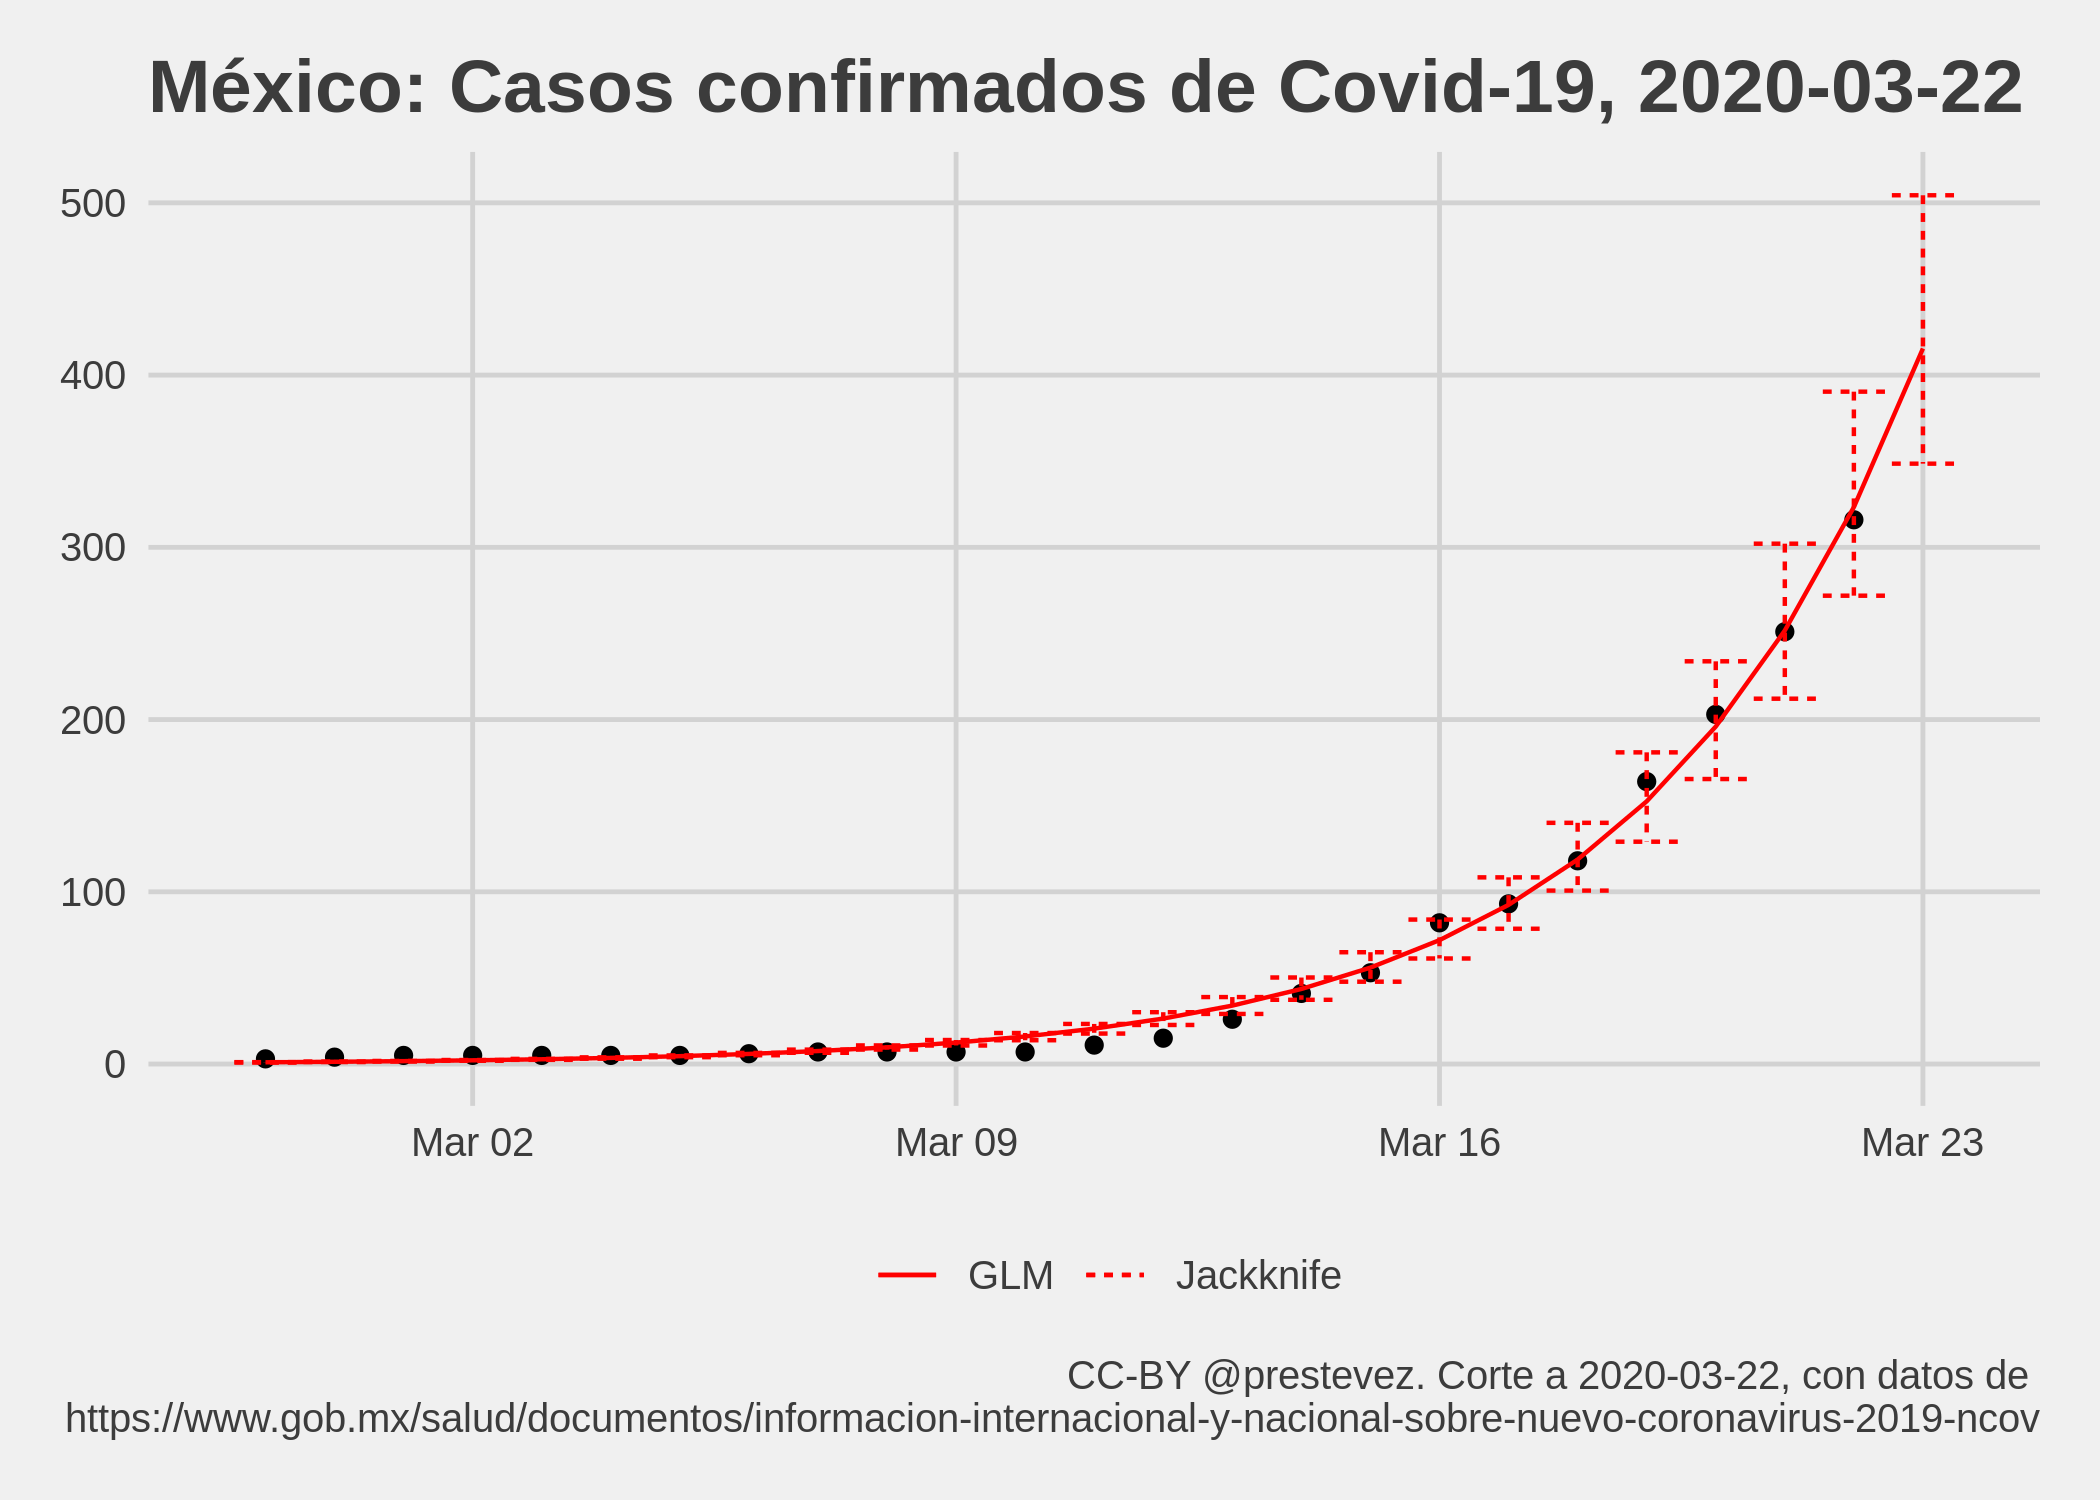
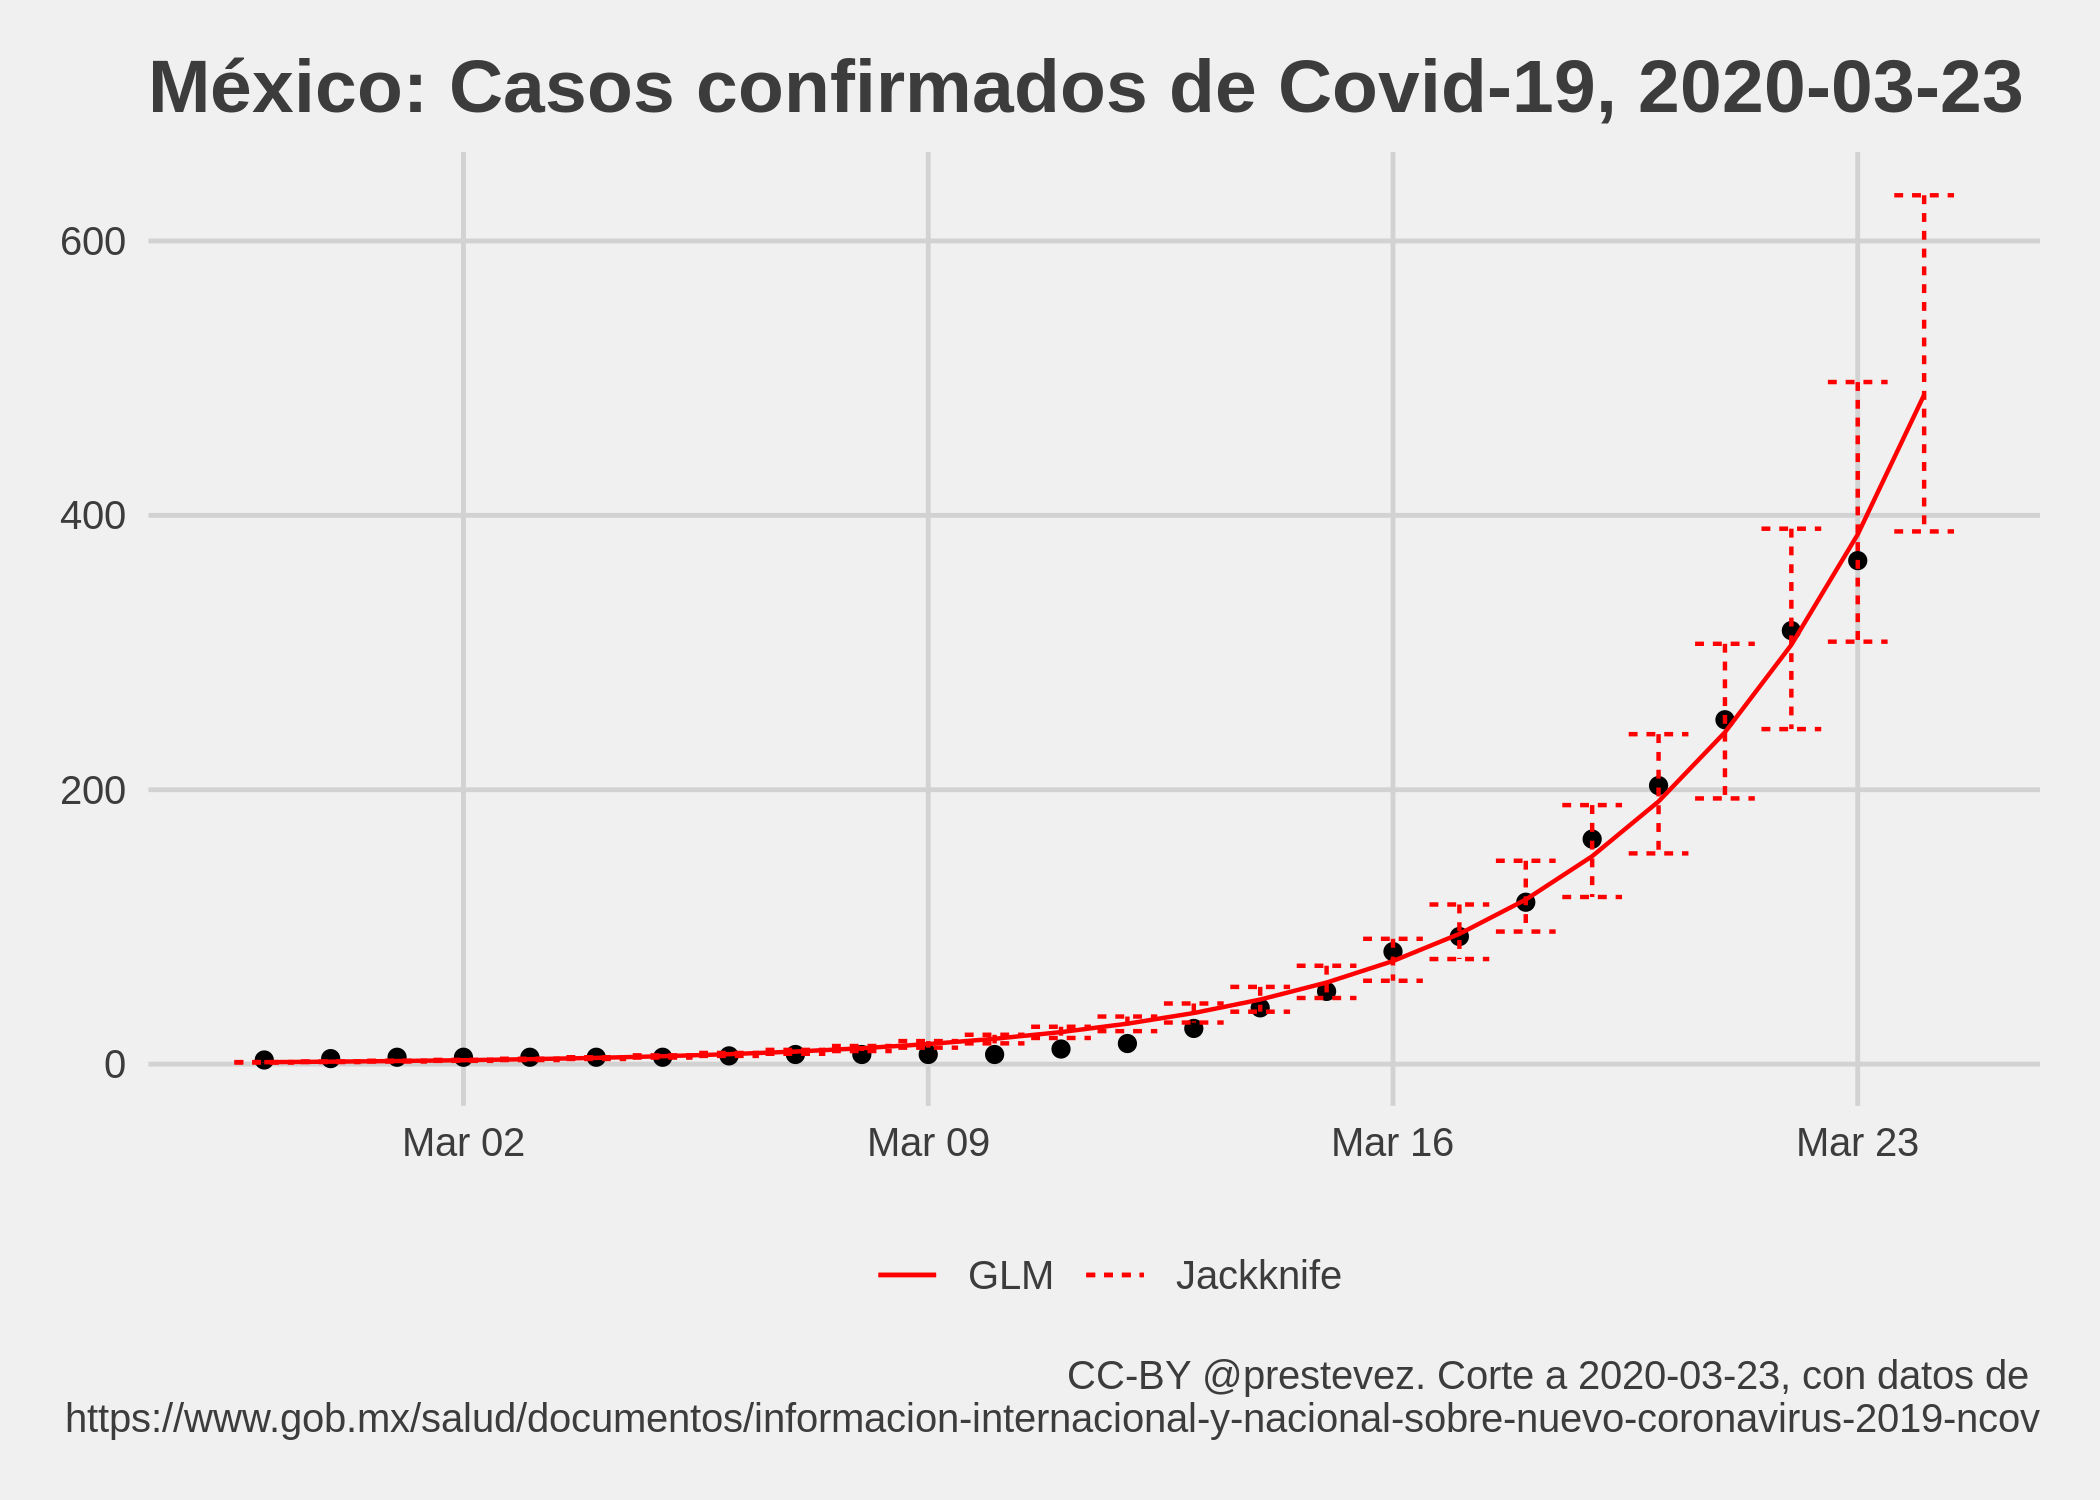
updated 2020-03-23

diff --git a/README.md b/README.md
@@ -1,7 +1,7 @@
 Evolución de Covid-19 en México
 ================
 [Patricio R Estevez-Soto](https://twitter.com/prestevez).
-Actualizado: 2020-03-24 01:05:29 GMT
+Actualizado: 2020-03-24 01:09:50 GMT
 
 # Crecimiento de casos confirmados de Covid-19 en México
 
@@ -37,23 +37,23 @@ Parámetros del modelo predictivo:
     ## glm(formula = casos ~ t, family = gaussian("log"), data = casos)
     ## 
     ## Deviance Residuals: 
-    ##      Min        1Q    Median        3Q       Max  
-    ## -11.4130   -3.6141   -0.2124    2.3445   11.4760  
+    ##     Min       1Q   Median       3Q      Max  
+    ## -19.126   -6.472   -1.250    2.217   12.463  
     ## 
     ## Coefficients:
-    ##              Estimate Std. Error t value Pr(>|t|)    
-    ## (Intercept) -0.233077   0.133248  -1.749   0.0942 .  
-    ## t            0.250495   0.005909  42.391   <2e-16 ***
+    ##             Estimate Std. Error t value Pr(>|t|)    
+    ## (Intercept) 0.110343   0.150781   0.732    0.472    
+    ## t           0.233833   0.006438  36.319   <2e-16 ***
     ## ---
     ## Signif. codes:  0 '***' 0.001 '**' 0.01 '*' 0.05 '.' 0.1 ' ' 1
     ## 
-    ## (Dispersion parameter for gaussian family taken to be 36.12251)
+    ## (Dispersion parameter for gaussian family taken to be 74.19919)
     ## 
-    ##     Null deviance: 179872.96  on 23  degrees of freedom
-    ## Residual deviance:    794.71  on 22  degrees of freedom
-    ## AIC: 158.11
+    ##     Null deviance: 270376.6  on 24  degrees of freedom
+    ## Residual deviance:   1706.6  on 23  degrees of freedom
+    ## AIC: 182.53
     ## 
-    ## Number of Fisher Scoring iterations: 5
+    ## Number of Fisher Scoring iterations: 6
 
 # Estimación de errores Jackknife
 
@@ -86,10 +86,10 @@ predicciones no son robustas.
 Parámetros Jackknife del modelo predictivo de casos:
 
     ## # A tibble: 2 x 4
-    ##   var         Estimate ci_low ci_high
-    ##   <chr>          <dbl>  <dbl>   <dbl>
-    ## 1 (Intercept)   -0.238 -0.355  -0.184
-    ## 2 t              0.251  0.248   0.256
+    ##   var         Estimate  ci_low ci_high
+    ##   <chr>          <dbl>   <dbl>   <dbl>
+    ## 1 (Intercept)    0.102 -0.0666   0.158
+    ## 2 t              0.234  0.232    0.242
 
 # Modelo de casos nuevos
 
@@ -122,39 +122,39 @@ Parámetros del modelo predictivo de casos nuevos:
     ## 
     ## Deviance Residuals: 
     ##     Min       1Q   Median       3Q      Max  
-    ## -2.7127  -1.1934  -0.4583   0.8208   3.0603  
+    ## -2.8578  -1.4671  -0.5063   0.7183   3.0569  
     ## 
     ## Coefficients:
     ##             Estimate Std. Error z value Pr(>|z|)    
-    ## (Intercept) -1.62204    0.30147   -5.38 7.43e-08 ***
-    ## t            0.24373    0.01449   16.83  < 2e-16 ***
+    ## (Intercept)  -1.2600     0.2665  -4.728 2.26e-06 ***
+    ## t             0.2223     0.0124  17.927  < 2e-16 ***
     ## ---
     ## Signif. codes:  0 '***' 0.001 '**' 0.01 '*' 0.05 '.' 0.1 ' ' 1
     ## 
     ## (Dispersion parameter for poisson family taken to be 1)
     ## 
-    ##     Null deviance: 554.605  on 23  degrees of freedom
-    ## Residual deviance:  59.315  on 22  degrees of freedom
-    ## AIC: 131.41
+    ##     Null deviance: 612.870  on 24  degrees of freedom
+    ## Residual deviance:  70.966  on 23  degrees of freedom
+    ## AIC: 148.84
     ## 
     ## Number of Fisher Scoring iterations: 5
 
     ## # A tibble: 2 x 4
     ##   var         Estimate ci_low ci_high
     ##   <chr>          <dbl>  <dbl>   <dbl>
-    ## 1 (Intercept)   -1.63  -1.85   -1.48 
-    ## 2 t              0.244  0.237   0.253
+    ## 1 (Intercept)   -1.27  -1.52   -1.13 
+    ## 2 t              0.223  0.217   0.236
 
 # Casos esperados mañana
 
 Mañana se espera que el **total acumulado de casos confirmados** de
-Covid-19 alcance **415**, con un intervalo de confianza Jackknife del
-95% entre **349** y **504**, si la tendencia observada hasta hoy se
+Covid-19 alcance **488**, con un intervalo de confianza Jackknife del
+95% entre **388** y **633**, si la tendencia observada hasta hoy se
 mantiene igual.
 
-Según el modelo de casos nuevos, mañana se esperan **87 casos
+Según el modelo de casos nuevos, mañana se esperan **92 casos
 confirmados nuevos**, con un intervalo de confianza Jackknife del 95%
-entre **60** y **128**, si la tendencia observada hasta hoy se mantiene
+entre **61** y **149**, si la tendencia observada hasta hoy se mantiene
 igual.
 
 Sin embargo, estas cifra muy probablemente estén equivocadas, pues el
@@ -180,12 +180,14 @@ Para el modelo del acumulado de casos:
 | 2020-03-20 |                      203 |     218.34 | \-15.34 |
 | 2020-03-21 |                      251 |     273.56 | \-22.56 |
 | 2020-03-22 |                      316 |     335.79 | \-19.79 |
+| 2020-03-23 |                      367 |     415.43 | \-48.43 |
 
 Para el modelo de casos nuevos:
 
-| Fecha      | Casos Nuevos Observados | Predicción |  Error |
-| :--------- | ----------------------: | ---------: | -----: |
-| 2020-03-22 |                      65 |      70.92 | \-5.92 |
+| Fecha      | Casos Nuevos Observados | Predicción |   Error |
+| :--------- | ----------------------: | ---------: | ------: |
+| 2020-03-22 |                      65 |      70.92 |  \-5.92 |
+| 2020-03-23 |                      51 |      87.47 | \-36.47 |
 
 # Discusión
 
@@ -194,7 +196,7 @@ confirmados de Covid-19 es consistente con ejercicios [realizados en
 otros países](https://doi.org/10.1016/S0140-6736\(20\)30627-9).
 
 La tendencia exponencial del modelo sugiere que **el número de casos
-confirmados se duplica cada 2.77 días**. Este ritmo es más rápido que
+confirmados se duplica cada 2.96 días**. Este ritmo es más rápido que
 [el observado a nivel
 global](https://ourworldindata.org/coronavirus#growth-of-cases-how-long-did-it-take-for-the-number-of-confirmed-cases-to-double),
 pero es consistente con los ritmos de crecimiento observados durante las
@@ -260,14 +262,8 @@ rmarkdown::render("README.Rmd")
     el total de casos confirmados. El cálculo anterior estaba sesgado
     hacia abajo (el tiempo calculado era menor, el cálculo anterior era
     2/exp(Beta) = t, debe ser log(2)/Beta = t).
-  - **23-03-2020**: Things to do:
-  - Jackknife estimates
-  - Discussion on SE and why the model is wrong
-  - Move to prestevez.com
-  - Track deaths
-  - Calculate cases based on deaths
-  - Simple calculation of deaths based on probabilities
-  - model new cases, not total cases
+  - **23-03-2020**: Se agregó un modelo Poisson de casos nuevos. Se
+    agregaron Jackknife estimates.
 
 # Licencia
 
